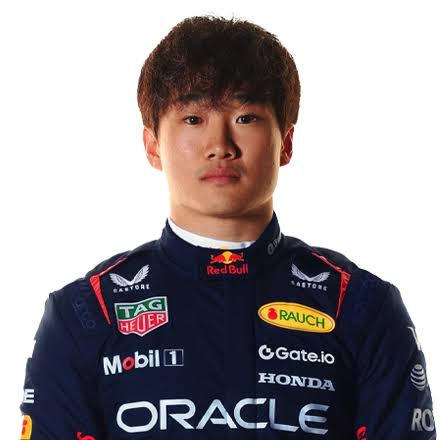
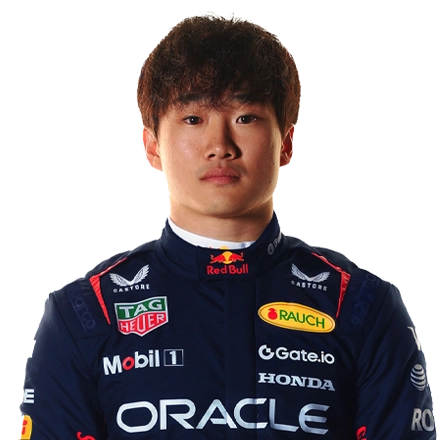
Update driver fetching endpoints in AdminPage, MyPredictionsPage, and PredictPage components

diff --git a/F1Prophet/src/Pages/PredictPage.jsx b/F1Prophet/src/Pages/PredictPage.jsx
@@ -39,7 +39,7 @@ function PredictPage() {
     useEffect(() => {
         const fetchData = async () => {
             try {
-                const driversRes = await fetch(`${API_START}/api/drivers`);
+                const driversRes = await fetch(`${API_START}/api/drivers-for-gp`);
                 if (!driversRes.ok) throw new Error('Failed to fetch drivers');
                 const driversData = await driversRes.json();
                 

diff --git a/F1Prophet/src/Pages/MyPredictionsPage.jsx b/F1Prophet/src/Pages/MyPredictionsPage.jsx
@@ -21,7 +21,7 @@ function MyPredictionsPage() {
             }
 
             try {
-                const driversRes = await fetch(`${API_START}/api/drivers`);
+                const driversRes = await fetch(`${API_START}/api/drivers-all-time`);
                 if (driversRes.ok) {
                     const driversData = await driversRes.json();
                     const driversMap = {};

diff --git a/F1Prophet/src/Pages/AdminPage.jsx b/F1Prophet/src/Pages/AdminPage.jsx
@@ -122,7 +122,7 @@ function AdminPage() {
                     }
                 }
 
-                const driversRes = await fetch(`${API_START}/api/drivers`);
+                const driversRes = await fetch(`${API_START}/api/drivers-for-gp`);
                 if (driversRes.ok) {
                     const driversData = await driversRes.json();
 

diff --git a/F1Prophet/Backend/app/routes/drivers.py b/F1Prophet/Backend/app/routes/drivers.py
@@ -58,7 +58,7 @@ def substitute_driver(driver_to_replace_id, replacement_driver_id, driver_list):
 
 
 
-@bp.route('/drivers', methods=['GET'])
+@bp.route('/drivers-for-gp', methods=['GET'])
 def get_drivers():
     try:
         drivers = f1_service.get_all_drivers(season=2026)
@@ -102,6 +102,119 @@ def get_drivers():
         traceback.print_exc()
         return jsonify({'error': str(e)}), 500
 
+@bp.route('/drivers', methods=['GET'])
+def get_drivers():
+    try:
+        drivers = f1_service.get_all_drivers(season=2026)
+        standings = f1_service.get_current_standings(season=2026)
+
+        standings_dict = {s['driver_id']: s for s in standings}
+
+        result = []
+
+        for driver in drivers:
+            driver_id = driver['driver_id']
+            standing = standings_dict.get(driver_id, {})
+
+            team = standing.get('team', 'Unknown')
+            if team == 'Unknown':
+                continue
+
+            result.append({
+                'driver_id': driver_id,
+                'code': driver['code'],
+                'number': driver['number'],
+                'full_name': driver['full_name'],
+                'given_name': driver['given_name'],
+                'family_name': driver['family_name'],
+                'nationality': driver['nationality'],
+                'date_of_birth': driver.get('date_of_birth', 'Unknown'),
+                'team': standing.get('team', 'Unknown'),
+                'position': standing.get('position'),
+                'points': standing.get('points', 0),
+                'wins': standing.get('wins', 0)
+            })
+
+        return jsonify(result), 200
+    
+    except Exception as e:
+        print(f"Error in get_drivers: {e}")
+        import traceback
+        traceback.print_exc()
+        return jsonify({'error': str(e)}), 500
+
+@bp.route('/drivers-all-time', methods=['GET'])
+def get_drivers():
+    try:
+        drivers = f1_service.get_all_drivers(season=2026)
+        standings = f1_service.get_current_standings(season=2026)
+
+        drivers2025 = f1_service.get_all_drivers(season=2025)
+        standings2025 = f1_service.get_current_standings(season=2025)
+
+        standings_dict = {s['driver_id']: s for s in standings}
+        standings2025_dict = {s['driver_id']: s for s in standings2025}
+
+        result = []
+
+        for driver in drivers:
+            driver_id = driver['driver_id']
+            standing = standings_dict.get(driver_id, {})
+
+            team = standing.get('team', 'Unknown')
+            if team == 'Unknown':
+                continue
+
+            result.append({
+                'driver_id': driver_id,
+                'code': driver['code'],
+                'number': driver['number'],
+                'full_name': driver['full_name'],
+                'given_name': driver['given_name'],
+                'family_name': driver['family_name'],
+                'nationality': driver['nationality'],
+                'date_of_birth': driver.get('date_of_birth', 'Unknown'),
+                'team': standing.get('team', 'Unknown'),
+                'position': standing.get('position'),
+                'points': standing.get('points', 0),
+                'wins': standing.get('wins', 0)
+            })
+
+
+        for driver in drivers2025:
+            if driver in result:
+                continue
+
+            driver_id = driver['driver_id']
+            standing = standings_dict.get(driver_id, {})
+
+            team = standing.get('team', 'Unknown')
+            if team == 'Unknown':
+                continue
+
+            result.append({
+                'driver_id': driver_id,
+                'code': driver['code'],
+                'number': driver['number'],
+                'full_name': driver['full_name'],
+                'given_name': driver['given_name'],
+                'family_name': driver['family_name'],
+                'nationality': driver['nationality'],
+                'date_of_birth': driver.get('date_of_birth', 'Unknown'),
+                'team': standing.get('team', 'Unknown'),
+                'position': standing.get('position'),
+                'points': standing.get('points', 0),
+                'wins': standing.get('wins', 0)
+            })
+
+
+        return jsonify(result), 200
+    
+    except Exception as e:
+        print(f"Error in get_drivers: {e}")
+        import traceback
+        traceback.print_exc()
+        return jsonify({'error': str(e)}), 500
 
 @bp.route('/drivers/<driver_id>', methods=['GET'])
 def get_driver_detail(driver_id):
